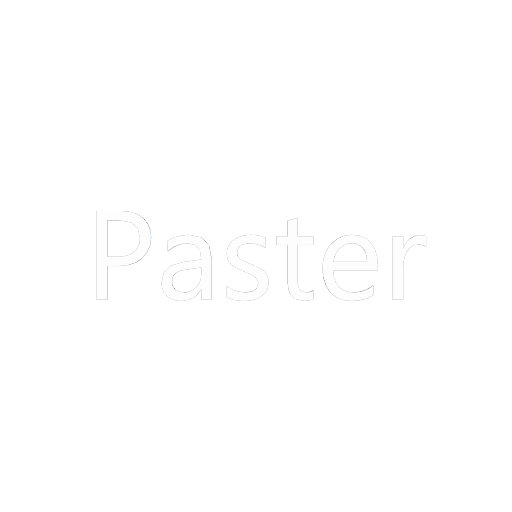
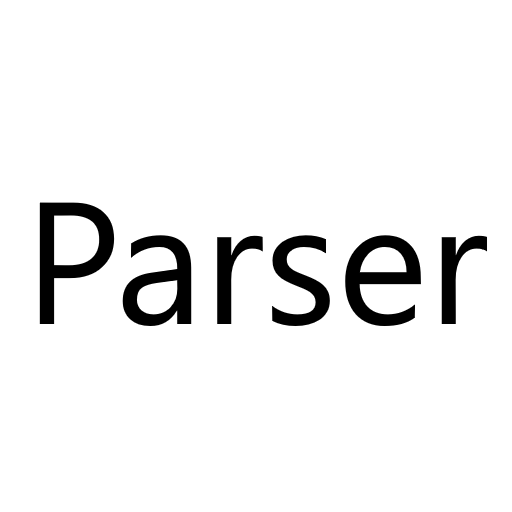
Typo moment

Changed region(s): [[0.0625, 0.375, 0.9688, 0.6562]]

diff --git a/Items/Data.cs b/Items/Data.cs
@@ -1,7 +1,5 @@
-using SimpleJSON;
-using System.Collections.Generic;
+using System.Collections.Generic;
 using TMPro;
-using static MapEvent;
 
 namespace Parser.Items
 {

diff --git a/UI/UI.cs b/UI/UI.cs
@@ -1,5 +1,4 @@
 using System.IO;
-using System.Numerics;
 using System.Reflection;
 using TMPro;
 using UnityEngine;
